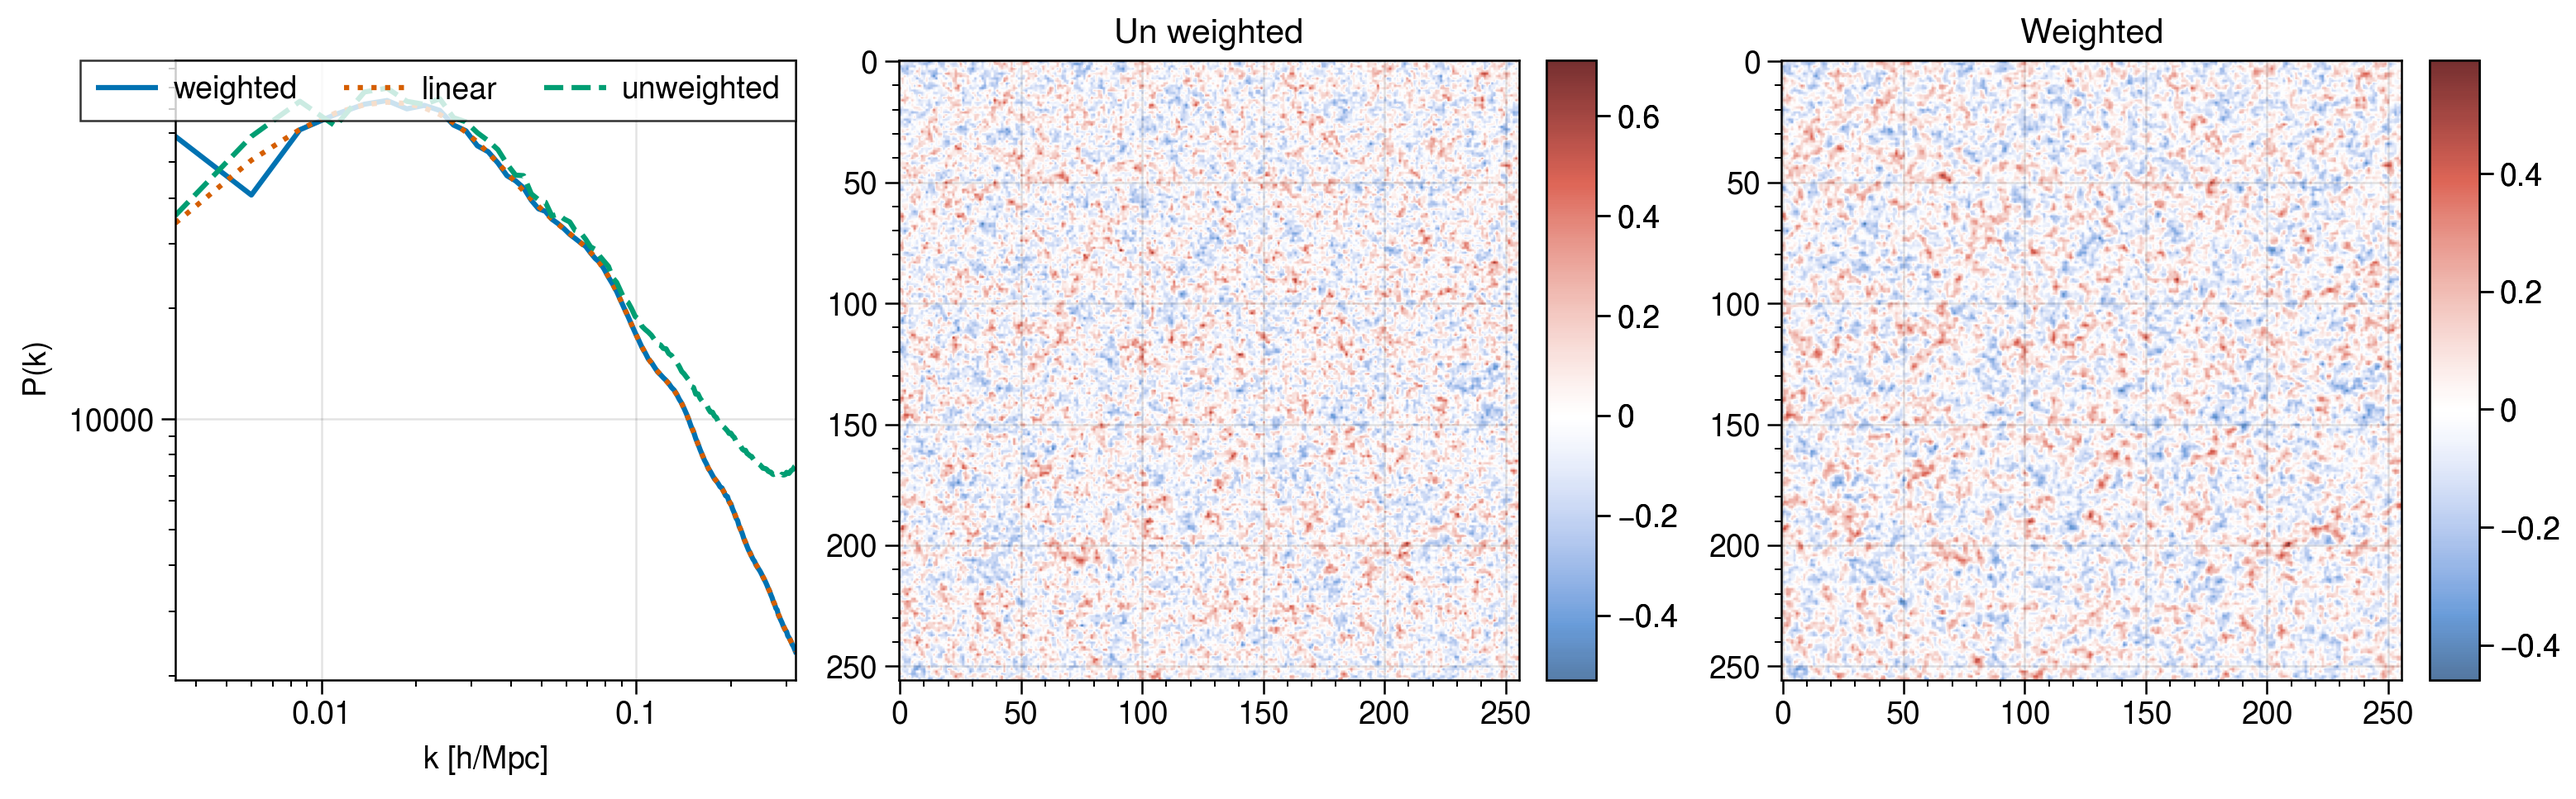
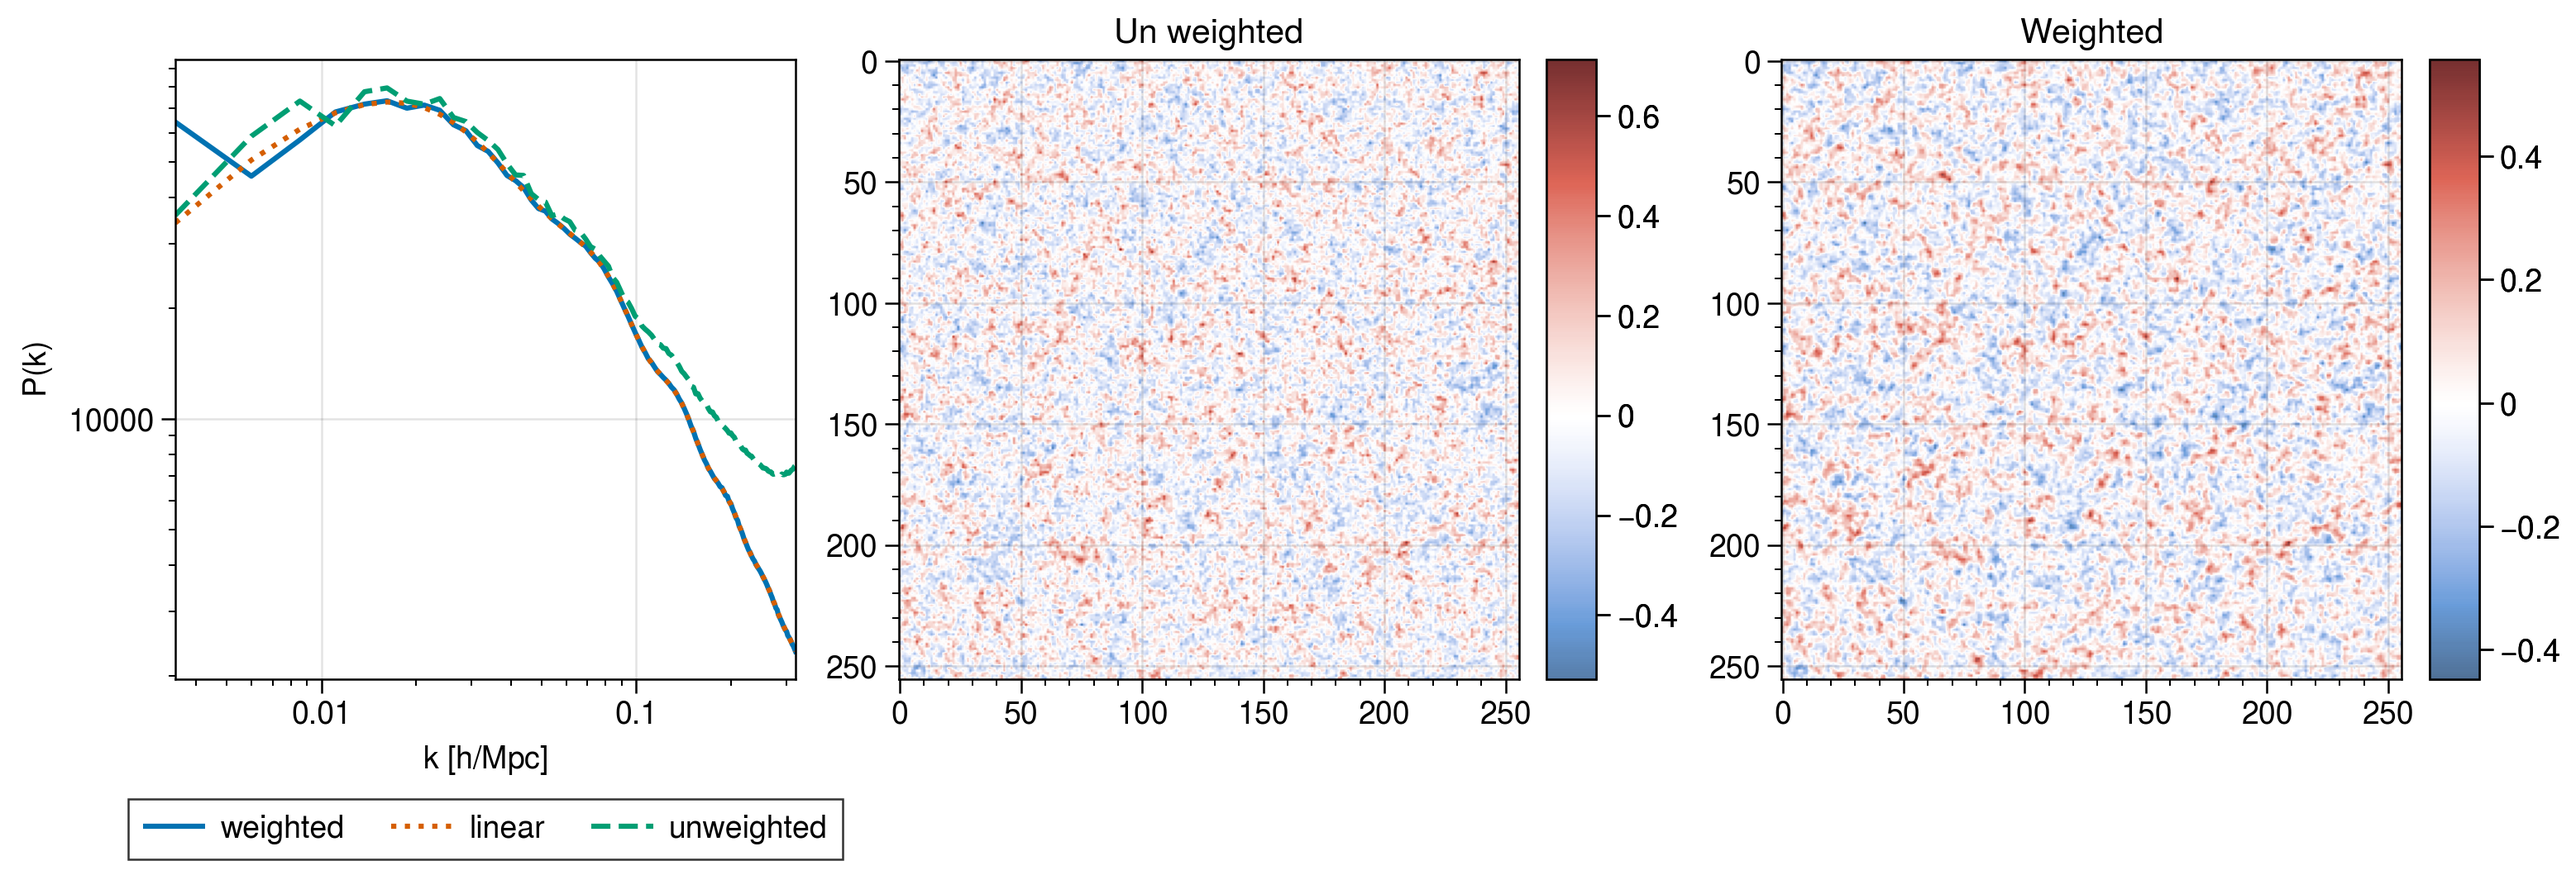
Moving galaxies to void positions by fitting clustering

diff --git a/tests/voids.py b/tests/voids.py
@@ -17,50 +17,75 @@ import MAS_library as MASL
 import Pk_library as PKL
 
 
-n_bins = 64
-box_size = 2500.
-k_ny = jnp.pi * n_bins / box_size
+
+box_size = 2000.
+
 key = jax.random.PRNGKey(42)
 
 particles = pd.read_csv("data/CATALPTCICz0.466G960S1005638091_zspace.dat", usecols = (0,1,2), delim_whitespace=True, engine='c').values.astype(np.float32)
+voids = pd.read_csv("data/CATALPTCICz0.466G960S1005638091_zspace.VOID.dat", usecols = (0,1,2,3), delim_whitespace=True, engine='c').values.astype(np.float32)
 mask = ((particles < box_size) & (particles > 0)).all(axis=1)
 particles = jax.device_put(particles[mask].copy())
 n_part = particles.shape[0]
-print(n_part)
+mask = ((voids[:,:3] < box_size) & (voids[:,:3] > 0)).all(axis=1) & (voids[:,3] > 16.)
+voids = jax.device_put(voids[mask].copy())
+n_voids = voids.shape[0]
+w = jnp.ones(voids.shape[0])
+w0 = jnp.ones(particles.shape[0])
+print("Number of galaxies", n_part)
+print("Number of voids", n_voids)
 
 
 shot_noise = box_size**3 / n_part
+shot_noise_v = box_size**3 / n_voids
 z = 0.466
+n_bins = 256
+delta_v = jnp.zeros((n_bins, n_bins, n_bins))
+delta_v = cic_mas_vec(delta_v,
+            voids[:,0], voids[:,1], voids[:,2], w, 
+            n_voids, 
+            0., 0., 0.,
+            box_size,
+            n_bins,
+            True)
+delta_v /= delta_v.mean()
+delta_v -= 1.
+k_ny = jnp.pi * n_bins / box_size
+k_edges = jnp.arange(0.003, k_ny, 0.0025)
+k, pk, modes = powspec_vec(delta_v, box_size, k_edges) 
+pkv = pk[:, 0] - shot_noise_v
 
 @jax.jit
-def loss(w):
-    bias = 2.2
-    n_bins = 256
-    box_size = 2500.
-    k_ny = jnp.pi * n_bins / box_size
-    k_edges = jnp.arange(0.003, k_ny, 0.0025)
+def loss(positions):
+    xpos = positions[:,0]
+    ypos = positions[:,1]
+    zpos = positions[:,2]
+
+    
     delta = jnp.zeros((n_bins, n_bins, n_bins))
     delta = cic_mas_vec(delta,
-                particles[:,0], particles[:,1], particles[:,2], w, 
+                xpos, ypos, zpos, w0, 
                 n_part, 
-                particles[:,0].min(), particles[:,1].min(), particles[:,2].min(),
+                0., 0., 0.,
                 box_size,
                 n_bins,
                 True)
     delta /= delta.mean()
     delta -= 1.
+
     k, pk, modes = powspec_vec(delta, box_size, k_edges) 
-    pk = pk[:,0]
-    plin = bias**2 * jc.power.linear_matter_power(jc.Planck15(), k, a=1. / (1 + z), transfer_fn=jc.transfer.Eisenstein_Hu)
-    return jnp.nanmean((jnp.log10(pk) - jnp.log10(plin))**2)
+    pk = pk[:,0] - shot_noise
+    
+    return jnp.nanmean((jnp.log10(pk) - jnp.log10(pkv))**2)
 
 from jax.experimental import optimizers
 key, subkey = jax.random.split(key)
 #w0 = jax.random.normal(key, (particles.shape[0],))* 0.2 + 0.4
-w0 = jnp.ones(particles.shape[0]) 
-learning_rate = 0.5
+
+x0 = particles
+learning_rate = 1
 opt_init, opt_update, get_params = optimizers.adam(learning_rate)
-opt_state = opt_init(w0)
+opt_state = opt_init(x0)
 @jax.jit
 def step(step, opt_state):
     value, grads = jax.value_and_grad(loss)(get_params(opt_state))
@@ -69,22 +94,21 @@ def step(step, opt_state):
 num_steps = 1000
 s = time.time()
 print("Training...", flush=True)
-opt_state = jax.lax.fori_loop(0, num_steps, step, opt_state)
+opt_state = jax.lax.fori_loop(0, num_steps, step, opt_state)   
 print(f"Training took {time.time() - s} s", flush=True)
-w = get_params(opt_state)
+new_pos = get_params(opt_state)
 #final_loss = loss(w).block_until_ready()
 #print(f"Final loss: {final_loss}", flush=True)
+print(particles)
+print(new_pos)
 
 
 
-n_bins = 256
-box_size = 2500.
-k_ny = jnp.pi * n_bins / box_size
 delta = jnp.zeros((n_bins, n_bins, n_bins))
 delta = cic_mas_vec(delta,
-            particles[:,0], particles[:,1], particles[:,2], w, 
-            n_part, 
-            particles[:,0].min(), particles[:,1].min(), particles[:,2].min(),
+            new_pos[:,0], new_pos[:,1], new_pos[:,2], w0, 
+            n_voids, 
+            0., 0., 0.,
             box_size,
             n_bins,
             True)
@@ -98,18 +122,21 @@ pk = pk[mask, 0]
 bias = 2.2
 plin = bias**2 * jc.power.linear_matter_power(jc.Planck15(), k, a=1. / (1 + z), transfer_fn=jc.transfer.Eisenstein_Hu)
 
-fig, ax = pplt.subplots(nrows=1, ncols=3, sharex=False, sharey=False)
+fig, ax = pplt.subplots(nrows=2, ncols=3, sharex=False, sharey=False)
 ax[2].imshow(delta[:,:,:].mean(axis=2), colorbar='r')
-ax[2].format(title='Weighted')
-ax[0].plot(k, pk, label='weighted')
+ax[2].format(title='Corrected')
+ax[0].plot(k, pk, label='Corrected')
 ax[0].plot(k, plin, label='linear', ls=':')
+s, xi, modes = xi_vec_fundamental(delta, box_size)
+mask = s < 200
+ax[4].plot(s[mask], s[mask]**2*xi[mask,0], label='Corrected')
 
 
 delta = jnp.zeros((n_bins, n_bins, n_bins))
 delta = cic_mas_vec(delta,
             particles[:,0], particles[:,1], particles[:,2], w0, 
             n_part, 
-            particles[:,0].min(), particles[:,1].min(), particles[:,2].min(),
+            0., 0., 0.,
             box_size,
             n_bins,
             True)
@@ -119,12 +146,34 @@ k, pk, modes = powspec_vec_fundamental(delta, box_size)
 mask = k < k_ny
 k = k[mask]
 pk = pk[mask, 0]
-ax[0].plot(k, pk, label='unweighted', ls='--')
+ax[0].plot(k, pk, label='Raw', ls='--')
 ax[0].format(xscale = 'log', yscale = 'log', xlabel='$k$ [$h$/Mpc]', ylabel='$P(k)$')
 ax[1].imshow(delta[:,:,:].mean(axis=2), colorbar='r')
-ax[1].format(title='Un weighted')
+ax[1].format(title='Raw')
+
+
+
+k, pk, modes = powspec_vec_fundamental(delta_v, box_size) 
+mask = k < k_ny
+k = k[mask]
+pk = pk[mask, 0]
+ax[0].plot(k, pk, label='Void', ls='--')
+ax[0].format(xscale = 'log', yscale = 'log', xlabel='$k$ [$h$/Mpc]', ylabel='$P(k)$')
+ax[3].imshow(delta_v[:,:,:].mean(axis=2), colorbar='r')
+ax[3].format(title='Void')
 ax[0].legend(loc='bottom')
-fig.savefig("plots/bias.png", dpi=300)
+
+s, xi, modes = xi_vec_fundamental(delta_v, box_size)
+mask = s < 200
+ax[4].plot(s[mask], s[mask]**2*xi[mask,0], label='Voids')
+ax[4].legend(loc='bottom')
+ax[4].format(xlabel = '$s$', ylabel=r'$s^2\xi$')
 
 
 
+
+
+
+
+
+fig.savefig("plots/voids.png", dpi=300)
